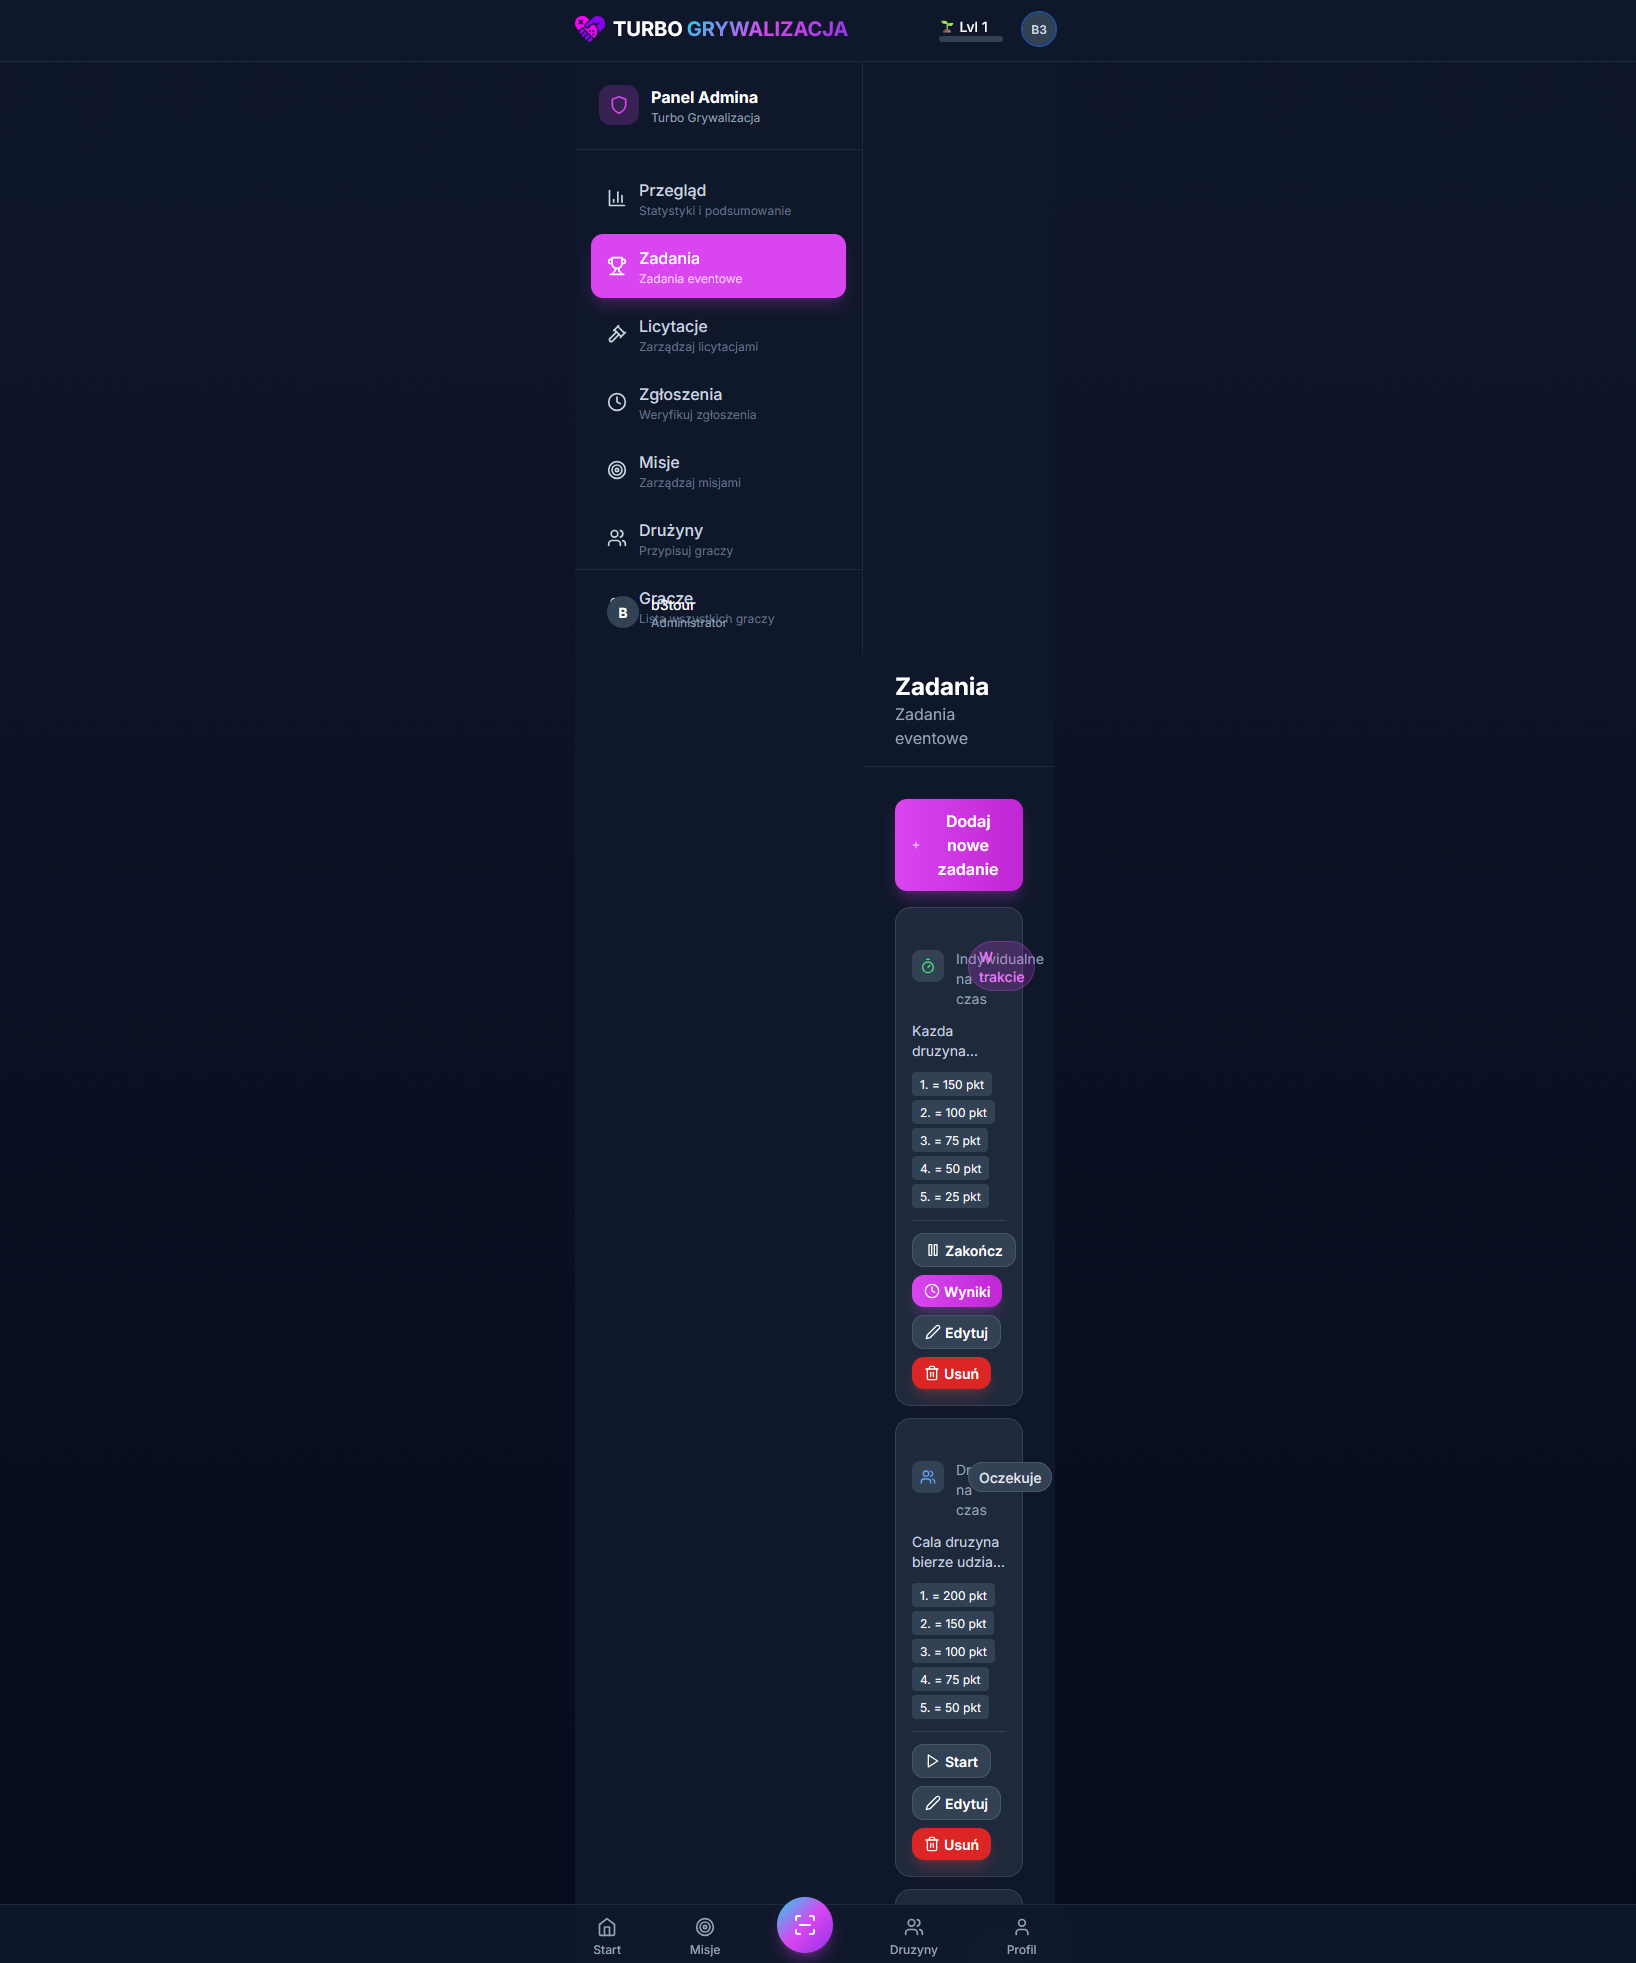
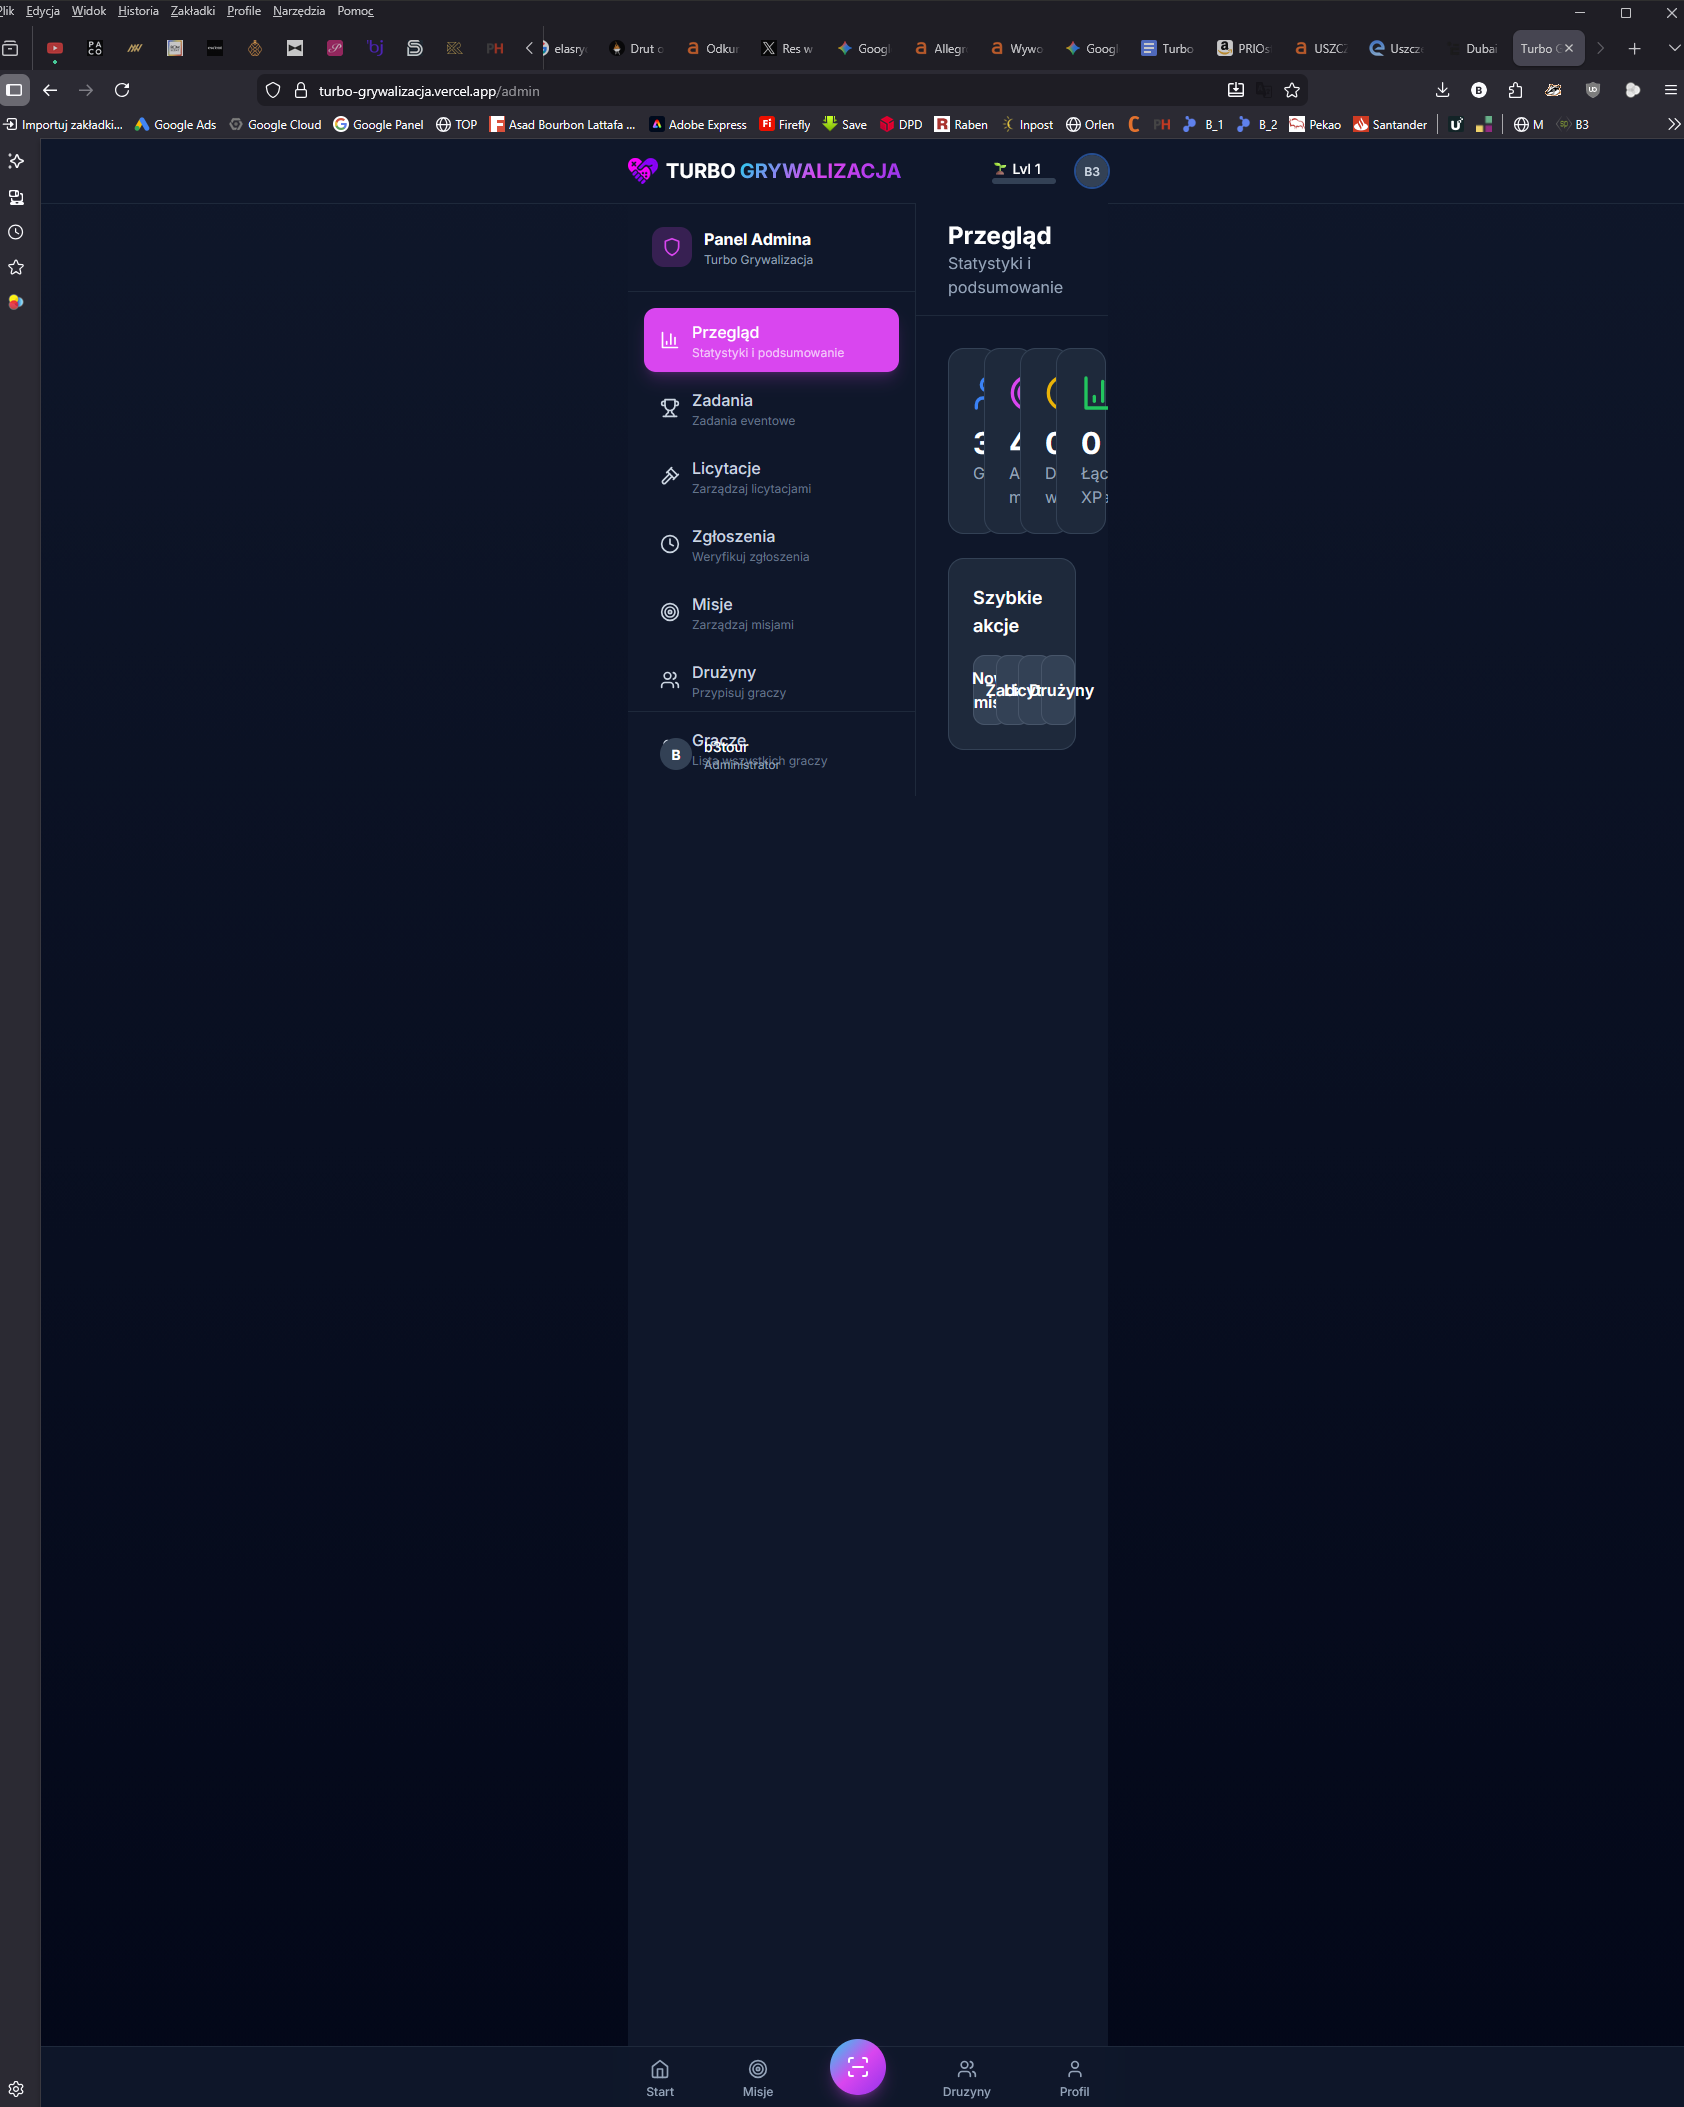
Move admin to separate route group for full-width layout
- Create (admin) route group with its own layout
- Admin page no longer constrained by mobile (app) layout
- Full-width desktop layout without max-w-lg restriction
- No bottom navigation on admin pages

diff --git a/src/app/(admin)/layout.tsx b/src/app/(admin)/layout.tsx
@@ -1,0 +1,60 @@
+'use client';
+
+import { useEffect, useRef } from 'react';
+import { useRouter } from 'next/navigation';
+import { useAuth } from '@/hooks/useAuth';
+import { LoadingScreen } from '@/components/layout';
+
+export default function AdminLayout({ children }: { children: React.ReactNode }) {
+  const router = useRouter();
+  const { isAuthenticated, hasProfile, profile, loading, refreshProfile } = useAuth();
+  const hasTriedRefresh = useRef(false);
+
+  useEffect(() => {
+    if (loading) return;
+
+    if (!isAuthenticated) {
+      router.replace('/login');
+      return;
+    }
+
+    if (!hasProfile) {
+      if (!hasTriedRefresh.current) {
+        hasTriedRefresh.current = true;
+        refreshProfile();
+      } else {
+        router.replace('/onboarding');
+      }
+    }
+  }, [isAuthenticated, hasProfile, loading, router, refreshProfile]);
+
+  // Sprawdź czy admin
+  useEffect(() => {
+    if (!loading && profile && !profile.is_admin) {
+      router.replace('/dashboard');
+    }
+  }, [loading, profile, router]);
+
+  if (loading) {
+    return <LoadingScreen message="Ładowanie..." />;
+  }
+
+  if (!isAuthenticated) {
+    return <LoadingScreen message="Przekierowywanie..." />;
+  }
+
+  if (!hasProfile) {
+    return <LoadingScreen message="Sprawdzanie profilu..." />;
+  }
+
+  if (!profile?.is_admin) {
+    return <LoadingScreen message="Sprawdzanie uprawnień..." />;
+  }
+
+  // Admin layout - pełna szerokość, bez ograniczeń mobilnych
+  return (
+    <div className="min-h-screen bg-dark-900">
+      {children}
+    </div>
+  );
+}
